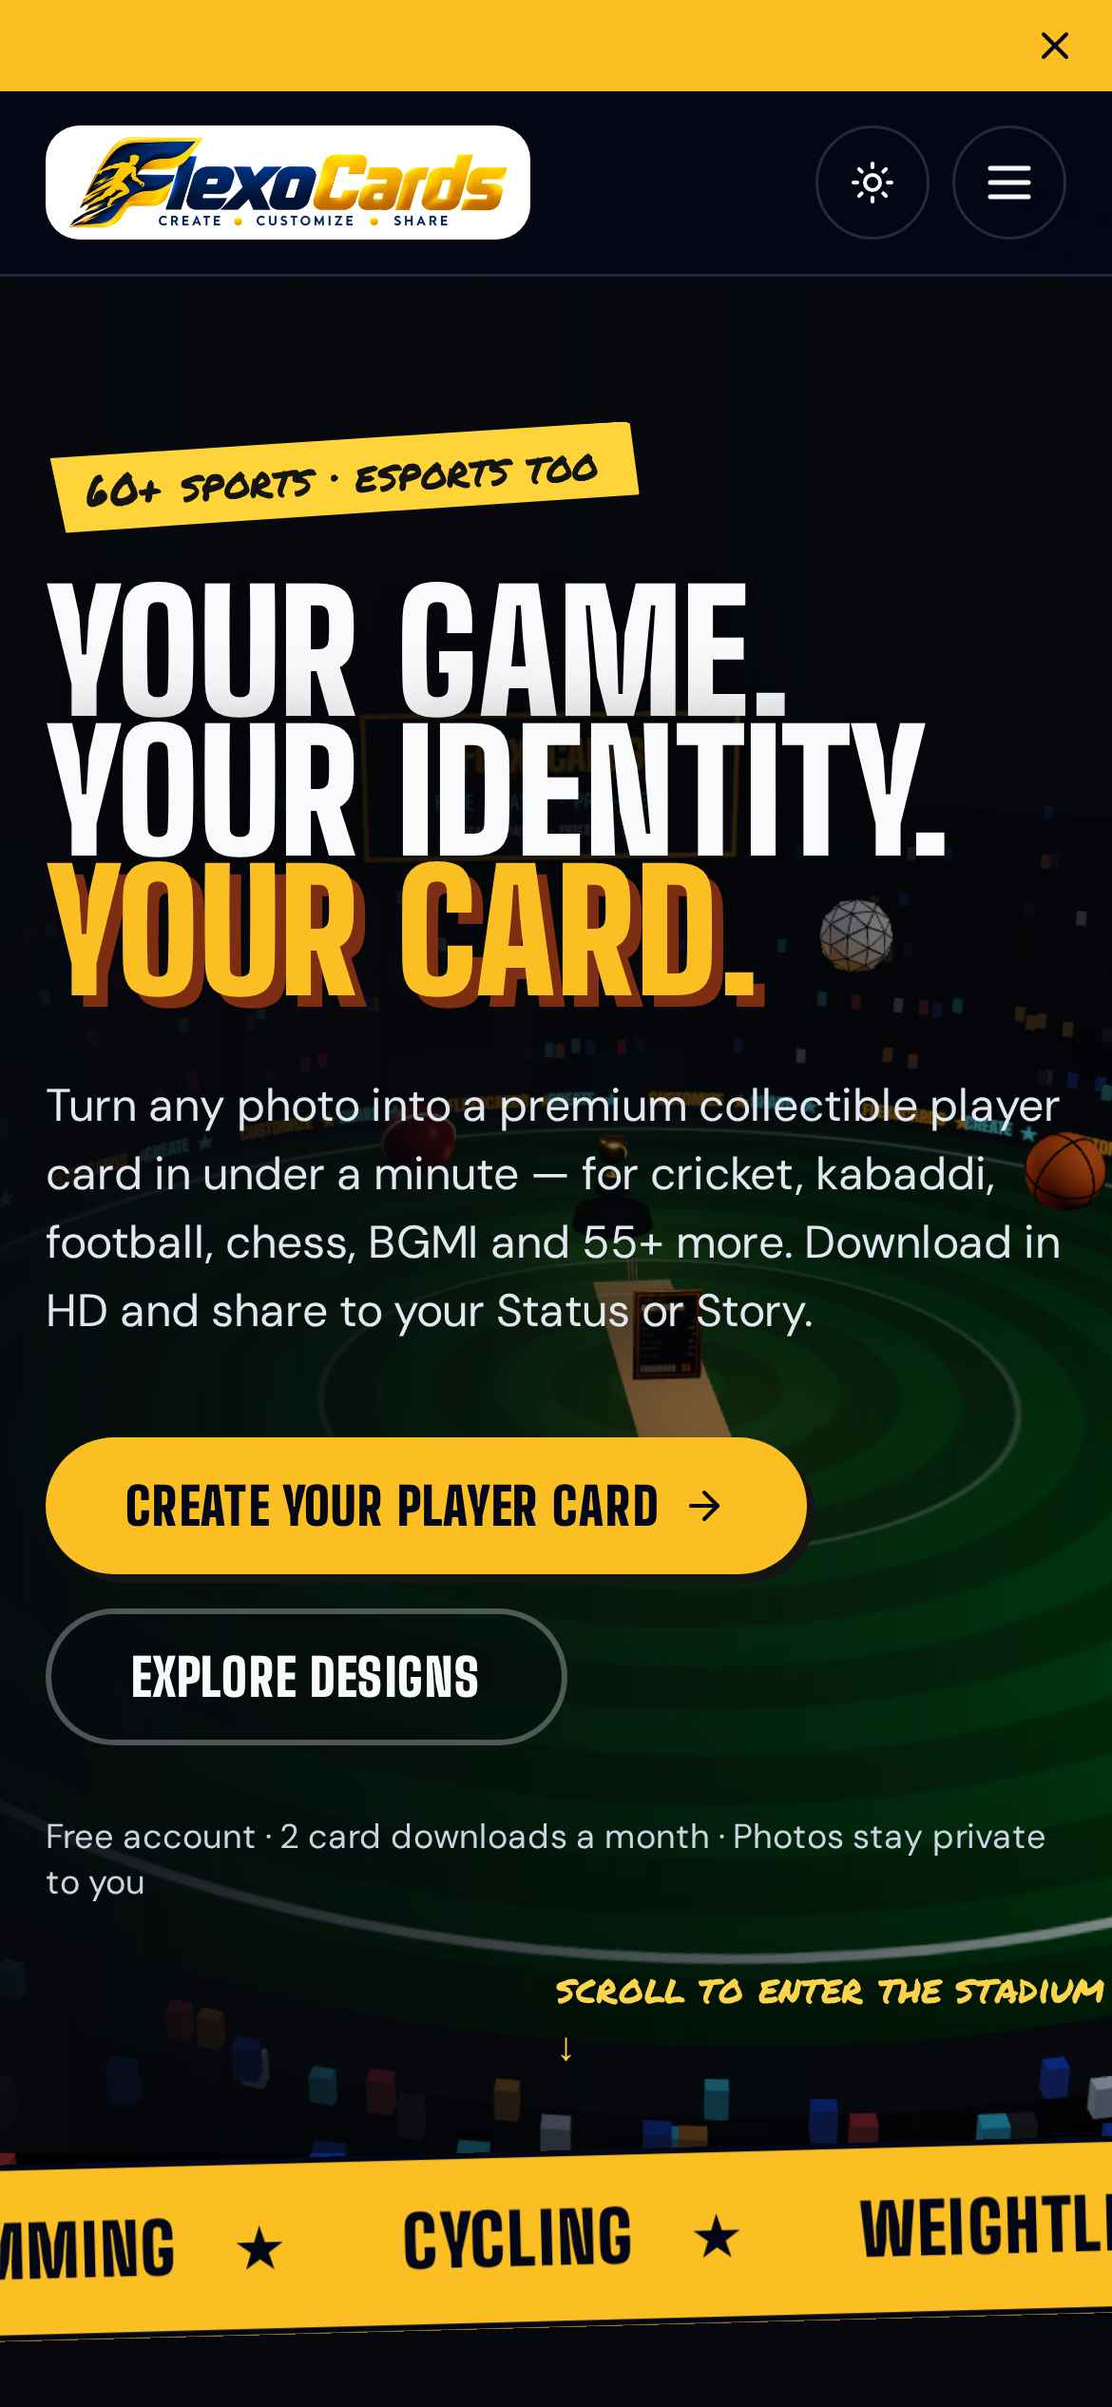
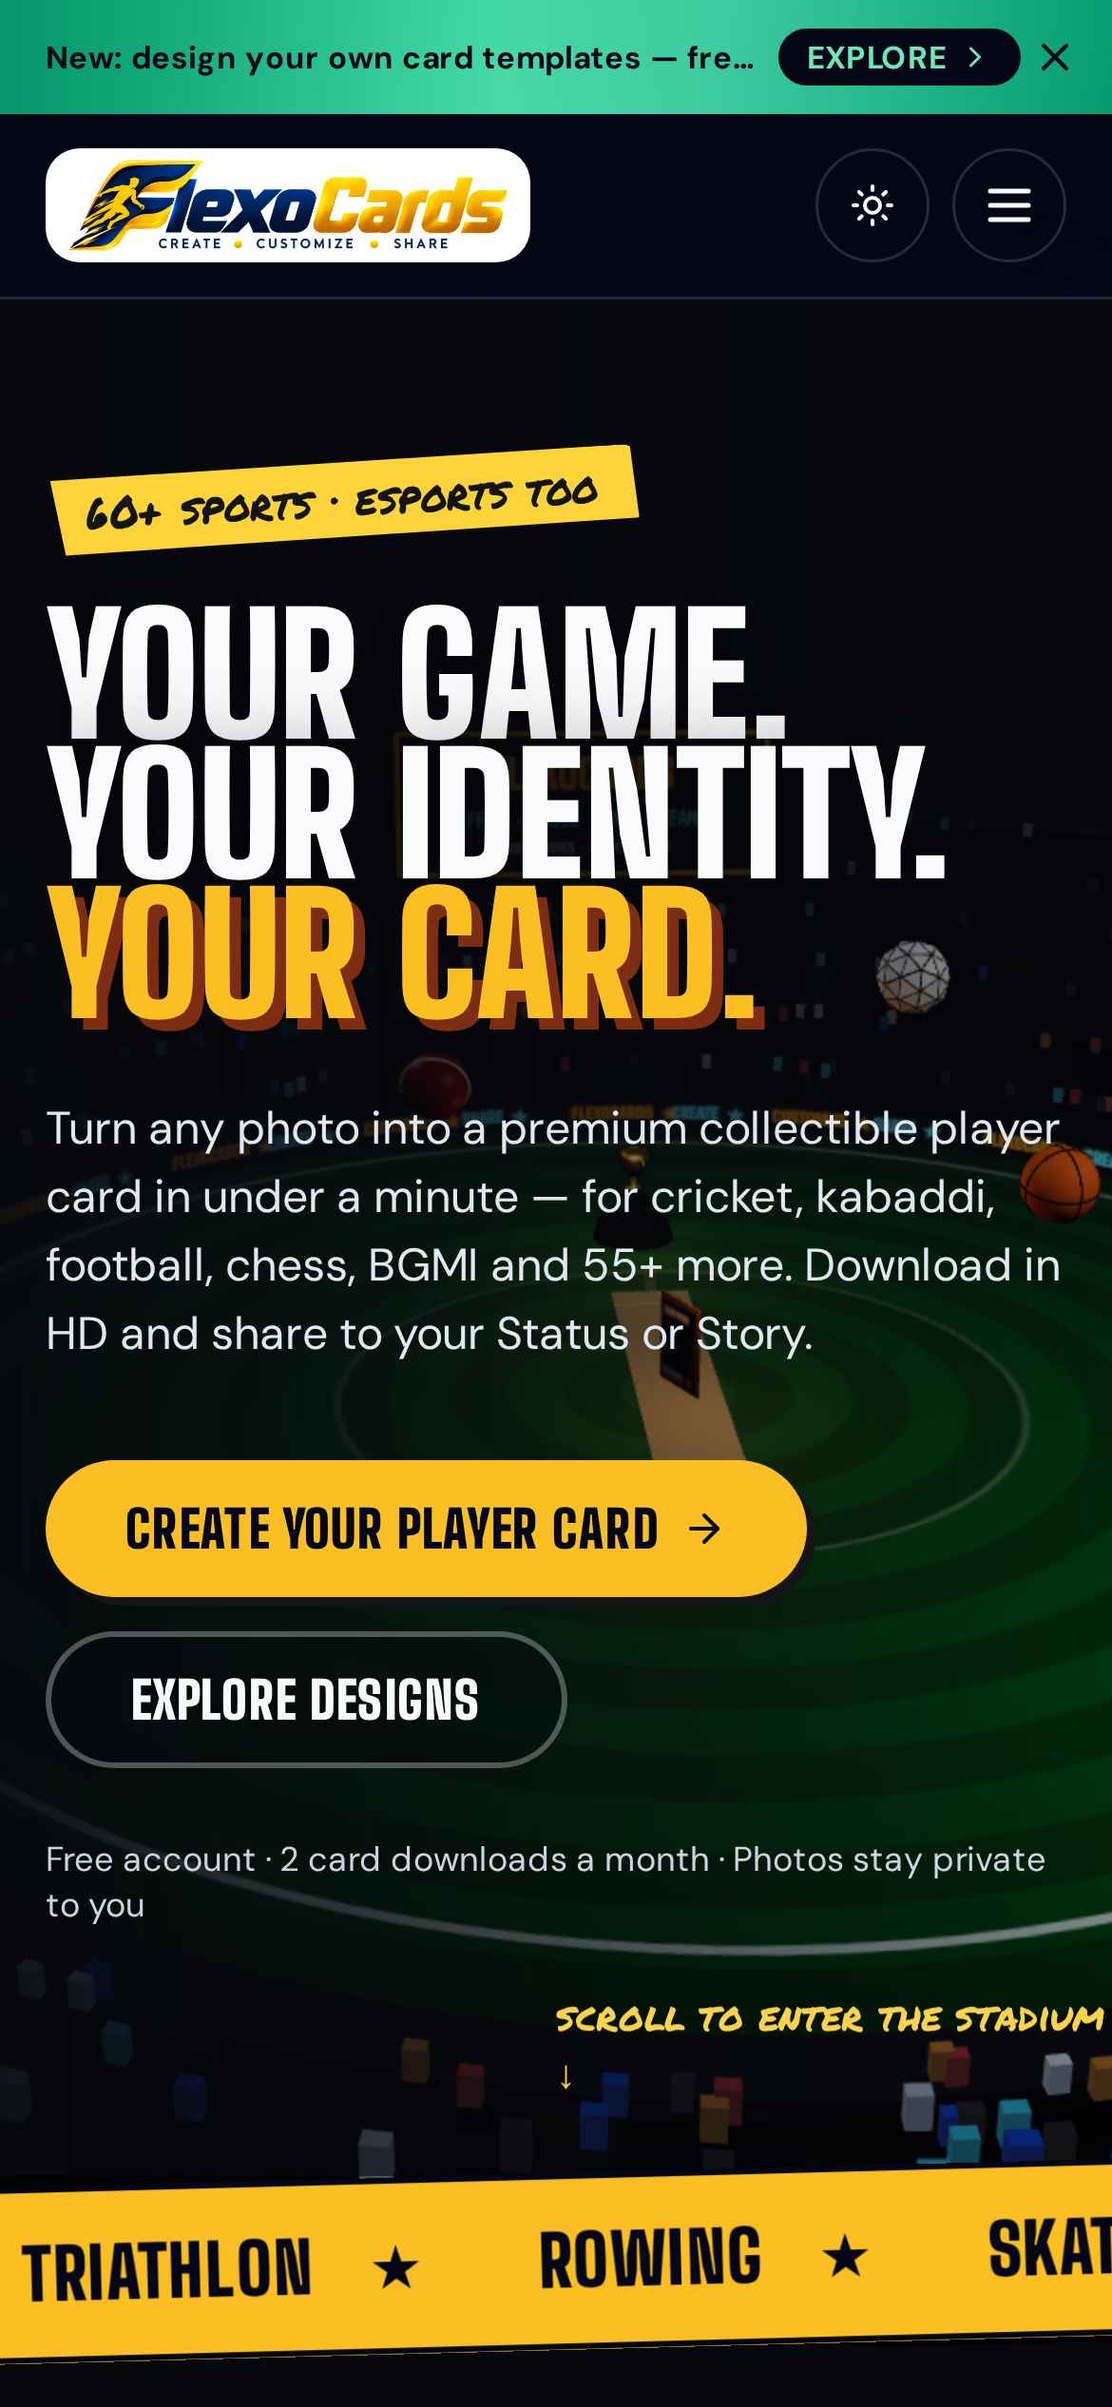
checkpoint before testing_agent_full_stack_o55
Emergent-Commit-Key: 1171734af96a87dea89d2a2e7a3bd51a1368ca5f2a3db017942bb97b477edd51

diff --git a/frontend/src/admin/GoogleSettings.jsx b/frontend/src/admin/GoogleSettings.jsx
@@ -4,6 +4,7 @@ import { KeyRound, Loader2, RotateCcw, CheckCircle2, AlertTriangle, Copy, Extern
 import { Button } from "@/components/ui/button";
 import { Input } from "@/components/ui/input";
 import { Label } from "@/components/ui/label";
+import { Switch } from "@/components/ui/switch";
 import { useApi, errMsg } from "@/lib/api";
 import { Section } from "./SettingsExtra";
 
@@ -44,6 +45,33 @@ function Guide({ origin }) {
   );
 }
 
+function ModeControls({ data, onSaved }) {
+  const api = useApi();
+  const [busy, setBusy] = useState(false);
+  const setMode = async (patch) => {
+    setBusy(true);
+    try { onSaved(await api("put", "/admin/settings/google-mode", { enabled: data.enabled, provider: data.provider, ...patch })); toast.success("Google sign-in updated"); }
+    catch (err) { toast.error(errMsg(err)); } finally { setBusy(false); }
+  };
+  const Opt = ({ id, title, sub }) => (
+    <button type="button" disabled={busy} onClick={() => setMode({ provider: id })} data-testid={`google-provider-${id}`}
+      className={`text-left rounded-xl border p-3 transition-colors ${data.provider === id ? "border-amber-500 bg-amber-500/10" : "border-border hover:bg-accent"}`}>
+      <p className="text-sm font-semibold flex items-center gap-2"><span className={`w-3 h-3 rounded-full border-2 ${data.provider === id ? "border-amber-500 bg-amber-500" : "border-muted-foreground"}`} />{title}</p>
+      <p className="text-xs text-muted-foreground mt-1">{sub}</p>
+    </button>
+  );
+  return (
+    <div className="space-y-3">
+      <label className="flex items-center gap-3 text-sm font-semibold"><Switch checked={data.enabled} disabled={busy} onCheckedChange={(enabled) => setMode({ enabled })} data-testid="google-enabled-switch" />
+        Show "Continue with Google" on the sign-in page</label>
+      {data.enabled && <div className="grid sm:grid-cols-2 gap-3">
+        <Opt id="emergent" title="Emergent managed (default)" sub="Works instantly, nothing to set up. Google's screen shows Emergent as the app." />
+        <Opt id="own" title="My own Google keys" sub={data.has_keys ? "Google's screen shows FlexoCards. Uses the keys saved below." : "Google's screen shows FlexoCards. Save your keys below first."} />
+      </div>}
+    </div>
+  );
+}
+
 export function GoogleSignInSettings({ data, onSaved, onReset }) {
   const api = useApi();
   const origin = window.location.origin;
@@ -51,15 +79,20 @@ export function GoogleSignInSettings({ data, onSaved, onReset }) {
   const [busy, setBusy] = useState(false);
   const save = async (e) => {
     e.preventDefault(); setBusy(true);
-    try { onSaved(await api("put", "/admin/settings/google", f)); setF((s) => ({ ...s, client_secret: "" })); toast.success("Google sign-in is on"); }
+    try { onSaved(await api("put", "/admin/settings/google", f)); setF((s) => ({ ...s, client_secret: "" })); toast.success("Your Google keys are saved and in use"); }
     catch (err) { toast.error(errMsg(err, "Check the Client ID — it ends with .apps.googleusercontent.com")); } finally { setBusy(false); }
   };
+  const clearKeys = async () => {
+    try { onSaved(await api("delete", "/admin/settings/google/keys")); setF({ client_id: "", client_secret: "" }); toast.success("Keys removed"); } catch (err) { toast.error(errMsg(err)); }
+  };
+  const status = !data.enabled ? "Off. Only email-code sign-in is shown." : data.provider === "emergent" ? "On — using Emergent managed Google sign-in." : data.connected ? `On — using your own Google keys (secret ${data.client_secret_hint}).` : "Your own keys are selected but not saved yet.";
   return (
     <Section icon={KeyRound} title="Google sign-in" testId="settings-google"
       sub="Let people sign in with their Google account. Email-code sign-in always stays on.">
       <p className={`text-sm flex items-center gap-2 ${data.connected ? "text-emerald-500" : "text-amber-500"}`} data-testid="google-status">
-        {data.connected ? <CheckCircle2 className="w-4 h-4" /> : <AlertTriangle className="w-4 h-4" />}
-        {data.connected ? `Connected (secret ${data.client_secret_hint}). The Google button is live.` : "Not connected. The Google button is hidden until you add your keys."}</p>
+        {data.connected ? <CheckCircle2 className="w-4 h-4" /> : <AlertTriangle className="w-4 h-4" />}{status}</p>
+      <ModeControls data={data} onSaved={onSaved} />
+      {data.enabled && data.provider === "own" && <>
       <div className="grid sm:grid-cols-2 gap-4">
         <CopyRow label="Authorised JavaScript origin" value={origin} id="origin" />
         <CopyRow label="Authorised redirect URI" value={`${origin}/api/auth/google/callback`} id="redirect-uri" />
@@ -70,9 +103,10 @@ export function GoogleSignInSettings({ data, onSaved, onReset }) {
         <div className="space-y-1.5 min-w-0"><Label>Client secret</Label><Input type="password" autoComplete="new-password" value={f.client_secret} onChange={(e) => setF({ ...f, client_secret: e.target.value })} placeholder={data.connected ? "Leave empty to keep the saved secret" : "GOCSPX-…"} className="font-mono text-xs" data-testid="google-client-secret-input" /></div>
         <div className="sm:col-span-2 flex flex-wrap gap-2">
           <Button type="submit" disabled={busy} data-testid="google-save-button">{busy && <Loader2 className="w-4 h-4 mr-1 animate-spin" />}Save Google keys</Button>
-          {data.saved_in_admin && <Button type="button" variant="ghost" onClick={onReset} data-testid="google-disconnect-button"><RotateCcw className="w-4 h-4 mr-1" />Remove saved keys</Button>}
+          {data.saved_in_admin && <Button type="button" variant="ghost" onClick={clearKeys} data-testid="google-disconnect-button"><RotateCcw className="w-4 h-4 mr-1" />Remove saved keys</Button>}
         </div>
       </form>
+      </>}
     </Section>
   );
 }

diff --git a/frontend/src/components/auth/AuthHashGate.jsx b/frontend/src/components/auth/AuthHashGate.jsx
@@ -1,0 +1,30 @@
+import { useEffect, useRef } from "react";
+import { useLocation, useNavigate } from "react-router-dom";
+import axios from "axios";
+import { toast } from "sonner";
+import { Loader2 } from "lucide-react";
+import { API } from "@/lib/api";
+import { useAuth } from "@/lib/auth";
+
+function AuthCallback({ hash }) {
+  const { pathname, search } = useLocation();
+  const navigate = useNavigate();
+  const { refresh } = useAuth();
+  const done = useRef(false);
+  useEffect(() => {
+    if (done.current) return;
+    done.current = true;
+    const sid = new URLSearchParams(hash.slice(1)).get("session_id");
+    axios.post(`${API}/auth/emergent/session`, { session_id: sid }, { withCredentials: true })
+      .then(async () => { await refresh(); toast.success("You're signed in"); navigate(pathname + search, { replace: true }); })
+      .catch((e) => { toast.error(e?.response?.data?.detail || "Google sign-in didn't work. Please try again."); refresh(); navigate("/sign-in", { replace: true }); });
+  }, []); // eslint-disable-line react-hooks/exhaustive-deps
+  return <div className="min-h-screen grid place-items-center" data-testid="auth-callback"><Loader2 className="w-8 h-8 animate-spin text-amber-500" /></div>;
+}
+
+// Emergent Google sign-in lands on `<page>#session_id=...`; read the hash from useLocation (reactive) before normal routes.
+export function AuthHashGate({ children }) {
+  const { hash } = useLocation();
+  if (hash?.includes("session_id=")) return <AuthCallback hash={hash} />;
+  return children;
+}

diff --git a/frontend/src/pages/SignIn.jsx b/frontend/src/pages/SignIn.jsx
@@ -55,7 +55,9 @@ export default function SignInPage({ mode = "sign-in" }) {
         <div className="mt-7 space-y-4">
           {google && (<>
             <Button asChild variant="outline" className="w-full h-12 rounded-full font-semibold" data-testid="google-sign-in-button">
-              <a href={`${API}/auth/google/start?next=${encodeURIComponent(next)}`}><GoogleIcon /><span className="ml-2">Continue with Google</span></a></Button>
+              <a href={google === "own" ? `${API}/auth/google/start?next=${encodeURIComponent(next)}`
+                // REMINDER: DO NOT HARDCODE THE URL, OR ADD ANY FALLBACKS OR REDIRECT URLS, THIS BREAKS THE AUTH
+                : `https://auth.emergentagent.com/?redirect=${encodeURIComponent(window.location.origin + next)}`}><GoogleIcon /><span className="ml-2">Continue with Google</span></a></Button>
             <div className="flex items-center gap-3 text-xs text-muted-foreground"><span className="h-px flex-1 bg-border" />or<span className="h-px flex-1 bg-border" /></div>
           </>)}
           <form onSubmit={send} className="space-y-3">

diff --git a/frontend/src/App.js b/frontend/src/App.js
@@ -36,6 +36,7 @@ import { AppDataProvider } from "@/context/AppData";
 import { Toaster } from "@/components/ui/sonner";
 import Header from "@/components/layout/Header";
 import { AnnouncementBar } from "@/components/layout/AnnouncementBar";
+import { AuthHashGate } from "@/components/auth/AuthHashGate";
 import Footer from "@/components/layout/Footer";
 import Home from "@/pages/Home";
 import Create from "@/pages/Create";
@@ -93,6 +94,7 @@ function App() {
             <ScreenGuard />
             <ReferralCapture />
             <SiteGate>
+            <AuthHashGate>
             <Routes>
               <Route element={<PublicShell />}>
                 <Route path="/" element={<Home />} />
@@ -116,6 +118,7 @@ function App() {
               <Route path="/admin/*" element={<AdminApp />} />
               <Route path="*" element={<Navigate to="/" replace />} />
             </Routes>
+            </AuthHashGate>
             </SiteGate>
             <Toaster richColors position="top-center" />
             </SiteStatusProvider>

diff --git a/frontend/src/lib/auth.jsx b/frontend/src/lib/auth.jsx
@@ -13,7 +13,11 @@ export function AuthProvider({ children }) {
   const signOut = useCallback(async () => {
     try { await axios.post(`${API}/auth/logout`, {}, { withCredentials: true }); } finally { setSession({ signed_in: false }); }
   }, []);
-  useEffect(() => { refresh(); }, [refresh]);
+  useEffect(() => {
+    // Emergent Google callback (#session_id=) creates the session first; AuthHashGate refreshes afterwards.
+    if (window.location.hash.includes("session_id=")) return;
+    refresh();
+  }, [refresh]);
   const value = { isLoaded: !!session, isSignedIn: !!session?.signed_in, user: session?.signed_in ? session : null, refresh, signOut, getToken: async () => null };
   return <AuthCtx.Provider value={value}>{children}</AuthCtx.Provider>;
 }

diff --git a/backend/server.py b/backend/server.py
@@ -2049,8 +2049,33 @@ async def admin_set_clerk(body: ClerkSettingsIn, member: dict = Depends(require_
 
 def _google_view() -> dict:
     g = settings_store.get("google")
-    return {"client_id": g["client_id"], "client_secret_hint": settings_store.hint(g["client_secret"]),
-            "connected": bool(g["client_id"] and g["client_secret"]), "saved_in_admin": bool(settings_store.saved_keys("google"))}
+    keys = bool(g["client_id"] and g["client_secret"])
+    return {"client_id": g["client_id"], "client_secret_hint": settings_store.hint(g["client_secret"]), "has_keys": keys,
+            "enabled": bool(g["enabled"]), "provider": g["provider"],
+            "connected": bool(g["enabled"]) and (g["provider"] == "emergent" or keys),
+            "saved_in_admin": bool(settings_store.saved_keys("google") & {"client_id", "client_secret"})}
+
+
+class GoogleModeIn(BaseModel):
+    enabled: bool
+    provider: str = Field(pattern=r"^(emergent|own)$")
+
+
+@admin.put("/settings/google-mode")
+async def admin_set_google_mode(body: GoogleModeIn, member: dict = Depends(require_perm("settings.manage"))):
+    await settings_store.save(cfg_db, "google", body.model_dump(), member["user_id"], iso())
+    await audit(member, "settings.google_mode", "google", body.model_dump())
+    return _google_view()
+
+
+@admin.delete("/settings/google/keys")
+async def admin_clear_google_keys(member: dict = Depends(require_perm("settings.manage"))):
+    patch = {"client_id": "", "client_secret": ""}
+    if settings_store.get("google")["provider"] == "own":
+        patch["provider"] = "emergent"
+    await settings_store.save(cfg_db, "google", patch, member["user_id"], iso())
+    await audit(member, "settings.google_keys_removed", "google")
+    return _google_view()
 
 
 class GoogleSettingsIn(BaseModel):
@@ -2063,7 +2088,7 @@ async def admin_set_google(body: GoogleSettingsIn, member: dict = Depends(requir
     sec = body.client_secret.strip()
     if not sec and not settings_store.get("google")["client_secret"]:
         raise HTTPException(400, "Paste the Client secret from Google Cloud")
-    await settings_store.save(cfg_db, "google", {"client_id": body.client_id.strip(), "client_secret": sec or None}, member["user_id"], iso())
+    await settings_store.save(cfg_db, "google", {"client_id": body.client_id.strip(), "client_secret": sec or None, "provider": "own", "enabled": True}, member["user_id"], iso())
     await audit(member, "settings.google_updated", "google")
     return _google_view()
 

diff --git a/backend/own_auth.py b/backend/own_auth.py
@@ -122,10 +122,42 @@ def _google():
     return g["client_id"].strip(), g["client_secret"].strip()
 
 
+def _google_mode():
+    g = _ctx["get_google"]()
+    if not g["enabled"]:
+        return None
+    if g["provider"] == "own":
+        cid, sec = _google()
+        return "own" if cid and sec else None
+    return "emergent"
+
+
 @router.get("/config")
 async def auth_config():
-    cid, sec = _google()
-    return {"google": bool(cid and sec), "code_minutes": CODE_MINUTES}
+    return {"google": _google_mode(), "code_minutes": CODE_MINUTES}
+
+
+class EmergentIn(BaseModel):
+    session_id: str = Field(min_length=8, max_length=300)
+
+
+@router.post("/emergent/session")
+async def emergent_session(body: EmergentIn, request: Request, response: Response):
+    if _google_mode() != "emergent":
+        raise HTTPException(403, "Google sign-in is turned off.")
+    await _rate(f"emergent-ip:{_ip(request)}", 20, 600)
+    try:
+        async with httpx.AsyncClient(timeout=15) as c:
+            r = await c.get("https://demobackend.emergentagent.com/auth/v1/env/oauth/session-data", headers={"X-Session-ID": body.session_id})
+            r.raise_for_status()
+            info = r.json()
+    except (httpx.HTTPError, ValueError):
+        raise HTTPException(401, "Google sign-in didn't work. Please try again.")
+    email = _norm(info.get("email"))
+    if not email:
+        raise HTTPException(401, "Google didn't share an email address.")
+    u = await _start_session(response, request, email, info.get("name", ""), "google")
+    return {"ok": True, "new": u["new"]}
 
 
 class CodeIn(BaseModel):
@@ -196,9 +228,9 @@ async def session(request: Request):
 
 @router.get("/google/start")
 async def google_start(request: Request, next: str = "/"):
-    cid, sec = _google()
-    if not (cid and sec):
+    if _google_mode() != "own":
         raise HTTPException(503, "Google sign-in is not set up yet.")
+    cid, sec = _google()
     state = secrets.token_urlsafe(24)
     params = {"client_id": cid, "redirect_uri": f"{_origin(request)}/api/auth/google/callback", "response_type": "code",
               "scope": "openid email profile", "state": state, "prompt": "select_account"}

diff --git a/backend/tests/test_announcements_iter3.py b/backend/tests/test_announcements_iter3.py
@@ -1,0 +1,44 @@
+# Iteration 3: extra announcement checks (status codes, edge validations, legal pages)
+import json
+import os
+import subprocess
+import pytest
+import requests
+
+BASE_URL = os.environ.get("REACT_APP_BACKEND_URL").rstrip("/")
+
+
+@pytest.fixture(scope="module")
+def tokens():
+    return json.loads(subprocess.check_output(["python", "qa_users.py", "tokens"], cwd="/app/backend"))
+
+
+def sess(tok):
+    s = requests.Session()
+    s.headers.update({"Authorization": f"Bearer {tok}"})
+    return s
+
+
+def test_signed_out_is_401():
+    for m in ("get", "post"):
+        r = getattr(requests, m)(f"{BASE_URL}/api/admin/announcements", json={"text": "TEST_x"} if m == "post" else None)
+        assert r.status_code == 401, (m, r.status_code)
+    assert requests.put(f"{BASE_URL}/api/admin/announcements/x", json={"text": "TEST_x"}).status_code == 401
+    assert requests.delete(f"{BASE_URL}/api/admin/announcements/x").status_code == 401
+
+
+def test_owner_announcements_present_and_order():
+    data = requests.get(f"{BASE_URL}/api/site/announcements").json()
+    orders = [a["order"] for a in data]
+    assert orders == sorted(orders)
+    assert all(a["tone"] in ("amber", "cyan", "green", "red") for a in data)
+
+
+@pytest.mark.parametrize("url,ok", [("", True), ("/blog", True), ("https://x.io/a?b=1", True),
+                                    ("//evil.com", True), ("data:text/html,x", False), ("/ space", False), ("ftp://a", False)])
+def test_link_validation(tokens, url, ok):
+    s = sess(tokens["admin"])
+    r = s.post(f"{BASE_URL}/api/admin/announcements", json={"text": "TEST_link check", "link_url": url, "active": False})
+    if r.status_code == 200:
+        s.delete(f"{BASE_URL}/api/admin/announcements/{r.json()['id']}")
+    assert (r.status_code == 200) == ok, (url, r.status_code)

diff --git a/backend/settings_store.py b/backend/settings_store.py
@@ -18,7 +18,7 @@ def env_defaults(section: str) -> dict:
     if section == "google":
         cid = e("GOOGLE_CLIENT_ID", "").strip()
         ok = cid.endswith(".apps.googleusercontent.com")
-        return {"client_id": cid if ok else "", "client_secret": e("GOOGLE_CLIENT_SECRET", "") if ok else ""}
+        return {"client_id": cid if ok else "", "client_secret": e("GOOGLE_CLIENT_SECRET", "") if ok else "", "enabled": True, "provider": "emergent"}
     if section == "social":
         return {k: "" for k in SOCIAL_KEYS}
     if section == "database":
